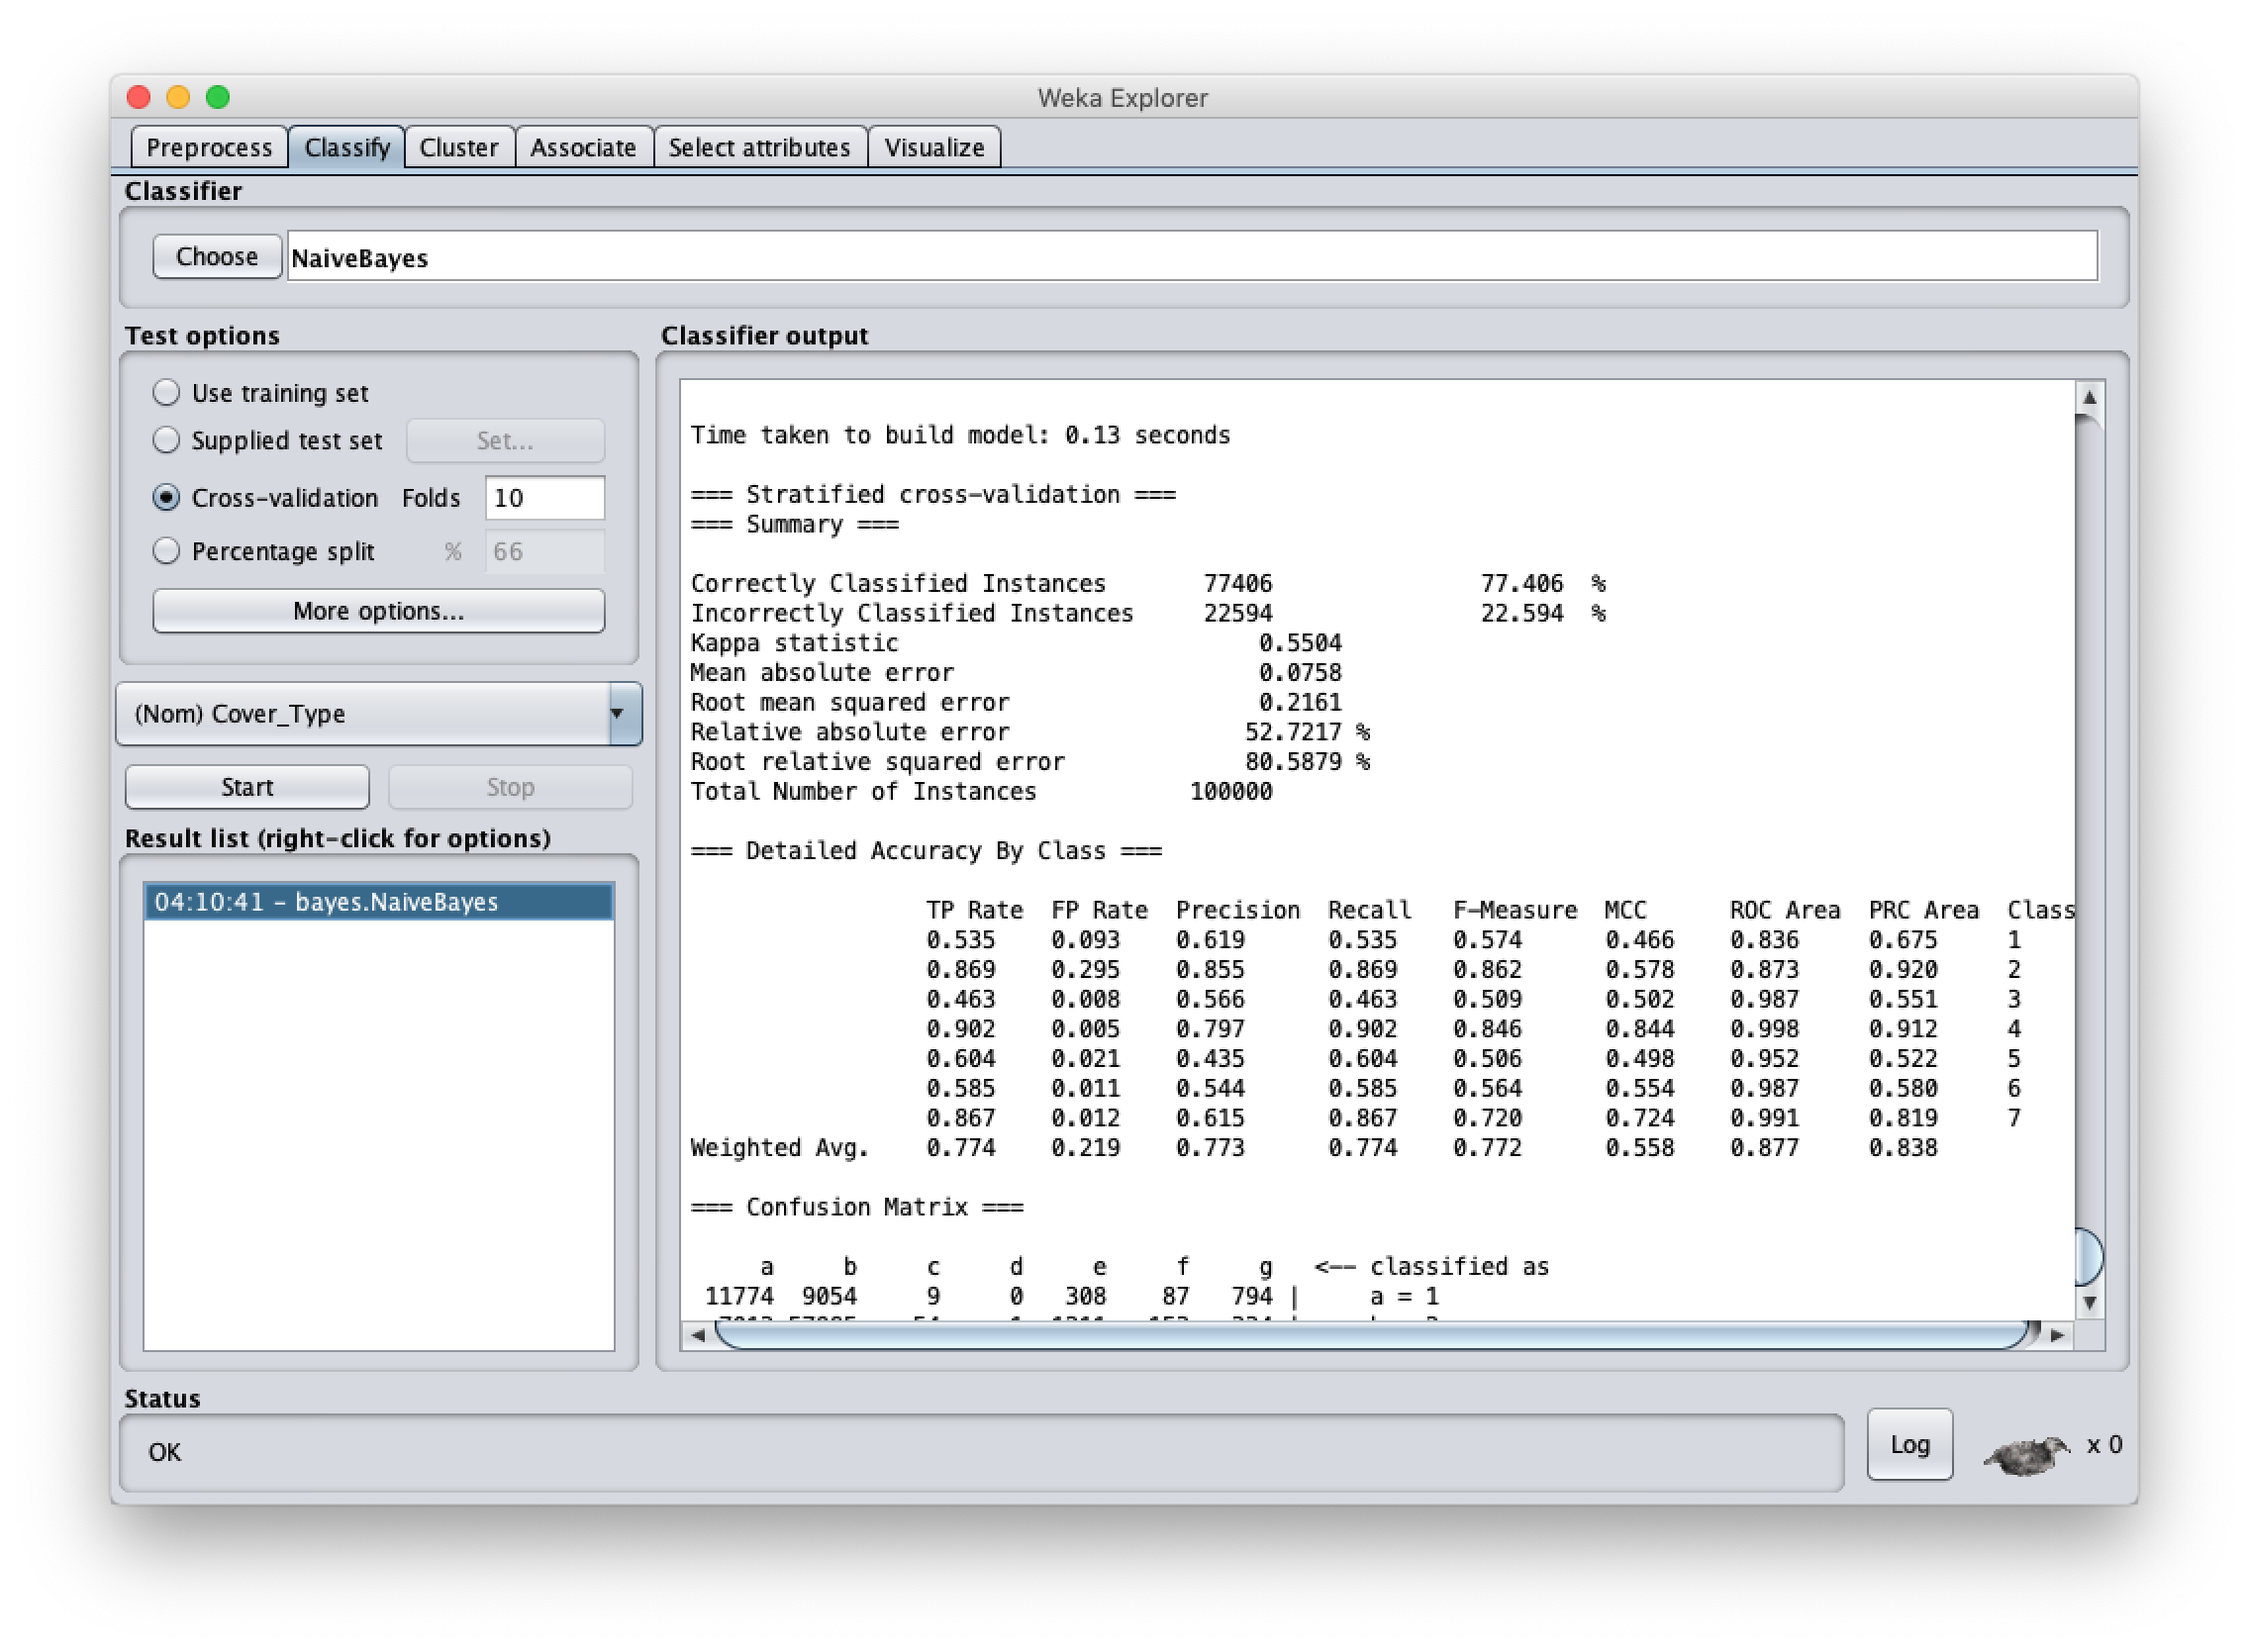
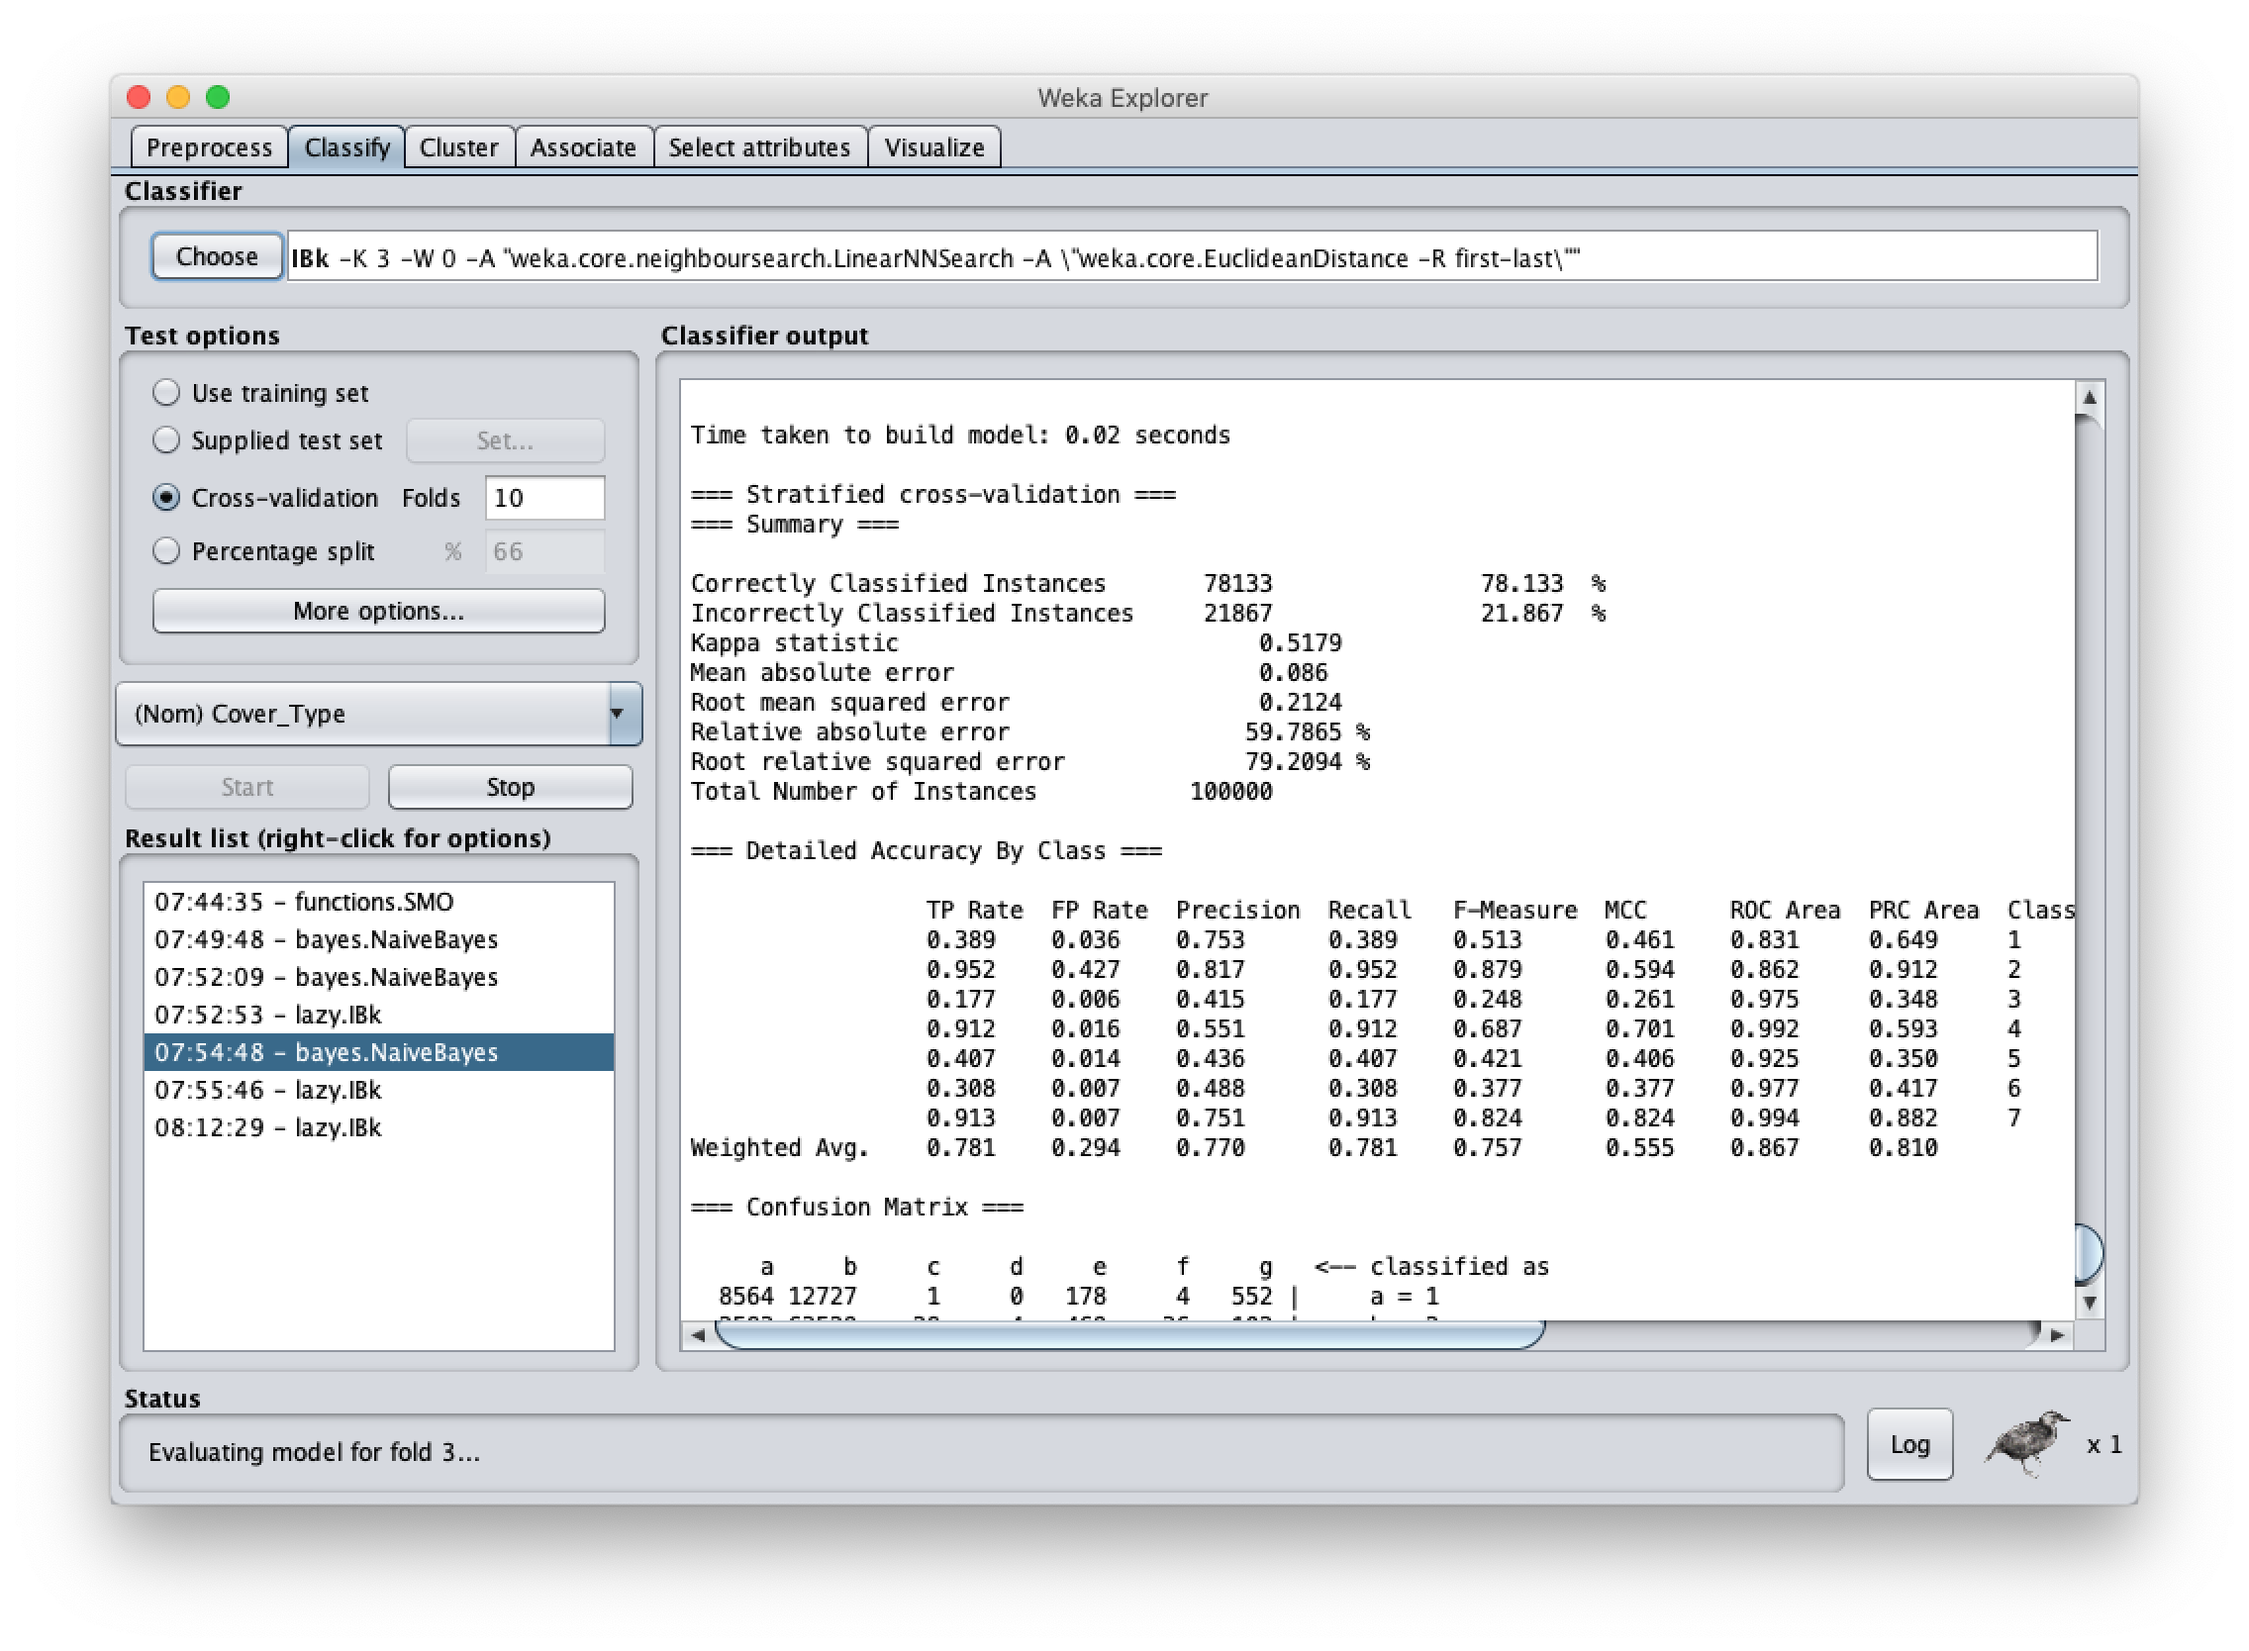
add select attr

diff --git a/assignment-1/README.md b/assignment-1/README.md
@@ -76,6 +76,15 @@
     | Soil_Type | 40 | 
     | Cover_Type | 1 |
 
+    Covertype :
+    1. Spruce/Fir
+    2. Lodgepole Pine
+    3. Ponderosa Pine
+    4. Cottonwood/Willow
+    5. Aspen
+    6. Douglas-fir
+    7. Krummholz
+
 * Data preparation :
   
    1. Weka Explorer just open data with **.arff** extension (it's like usual .csv file with header information). So, first, we have to convert **covertype.csv** into **covertype.arff** using **ArffViewer**. It can be found in the Weka's main menu > Tools > ArffViewer. Open the .csv file and save as .arff file.
@@ -83,6 +92,66 @@
     ![](img/arffviewer.png)
 
    2. There are **too much data** that cause some processes in Weka to get stuck. So, I reduce the number of data become **100000 rows**. (source: [here](https://stackoverflow.com/questions/50820926/weka-j48-gets-stuck-on-building-model-on-training-data) | data reduction process: [here](reduce-covertype.ipynb))
+
+* Here's the **arff** file
+  
+    ```arff
+    @attribute Elevation numeric
+    @attribute Aspect numeric
+    @attribute Slope numeric
+    @attribute Horizontal_Distance_To_Hydrology numeric
+    @attribute Vertical_Distance_To_Hydrology numeric
+    @attribute Horizontal_Distance_To_Roadways numeric
+    @attribute Hillshade_9am numeric
+    @attribute Hillshade_Noon numeric
+    @attribute Hillshade_3pm numeric
+    @attribute Horizontal_Distance_To_Fire_Points numeric
+    @attribute Wilderness_Area1 numeric
+    @attribute Wilderness_Area2 numeric
+    @attribute Wilderness_Area3 numeric
+    @attribute Wilderness_Area4 numeric
+    @attribute Soil_Type1 numeric
+    @attribute Soil_Type2 numeric
+    @attribute Soil_Type3 numeric
+    @attribute Soil_Type4 numeric
+    @attribute Soil_Type5 numeric
+    @attribute Soil_Type6 numeric
+    @attribute Soil_Type7 numeric
+    @attribute Soil_Type8 numeric
+    @attribute Soil_Type9 numeric
+    @attribute Soil_Type10 numeric
+    @attribute Soil_Type11 numeric
+    @attribute Soil_Type12 numeric
+    @attribute Soil_Type13 numeric
+    @attribute Soil_Type14 numeric
+    @attribute Soil_Type15 numeric
+    @attribute Soil_Type16 numeric
+    @attribute Soil_Type17 numeric
+    @attribute Soil_Type18 numeric
+    @attribute Soil_Type19 numeric
+    @attribute Soil_Type20 numeric
+    @attribute Soil_Type21 numeric
+    @attribute Soil_Type22 numeric
+    @attribute Soil_Type23 numeric
+    @attribute Soil_Type24 numeric
+    @attribute Soil_Type25 numeric
+    @attribute Soil_Type26 numeric
+    @attribute Soil_Type27 numeric
+    @attribute Soil_Type28 numeric
+    @attribute Soil_Type29 numeric
+    @attribute Soil_Type30 numeric
+    @attribute Soil_Type31 numeric
+    @attribute Soil_Type32 numeric
+    @attribute Soil_Type33 numeric
+    @attribute Soil_Type34 numeric
+    @attribute Soil_Type35 numeric
+    @attribute Soil_Type36 numeric
+    @attribute Soil_Type37 numeric
+    @attribute Soil_Type38 numeric
+    @attribute Soil_Type39 numeric
+    @attribute Soil_Type40 numeric
+    @attribute Cover_Type numeric
+    ```
  
 ## Report
 ### Preprocess 
@@ -99,7 +168,17 @@
    ![](img/visualize-1.png)
    
    ![](img/visualize-2.png)
+
+### Select Attributes
+
+1. Using default attribute evaluator (**CfsSubsetEval**) and search method (**BestFirst**)
+2. Here's the selected attributes.
    
+   ![](img/select-attr.png)
+
+3. Visualize attributes
+   ![](img/visualize-after.png)
+
 ### Classification - Naive Bayes
 1. Click **Classify** tab.
 2. Click **Choose** button and select **NaiveBayes** under the **bayes** group.
@@ -113,8 +192,6 @@
 
    ![](img/naive-bayes-result-2.png)
 
-    You can see that with the default configuration that Naive Bayes achieves an accuracy of **77%**.
-
 ### Classification - K-Nearest Neighbor (KNN)
 
 1. Still in the **Classify** tab.
@@ -126,12 +203,16 @@
 
 3. Click the **Start** button to run the algorithm on the Covertype dataset.
 4. Here's the result
+    * k = 1
+        ![](img/knn-result-11.png)
 
-   ![](img/knn-result-1.png)
+        ![](img/knn-result-12.png)
 
-   ![](img/knn-result-2.png)
+    * k = 3
 
-    You can see that with the default configuration that KNN achieves an accuracy of **69%**.
+        ![](img/knn-result-3.png)
+
+
 
 ### Classification - Support Vector Machine (SVM)
 
@@ -157,6 +238,12 @@
 
 4. Click the **Start** button to run the algorithm on the Covertype dataset.
 5. Here's the result
+    * k = 1
+  
+        ![](img/kmeans-result-3.png)
 
-   ![](img/kmeans-result.png)
+    * k = 7
 
+        ![](img/kmeans-result-7.png)
+
+  
